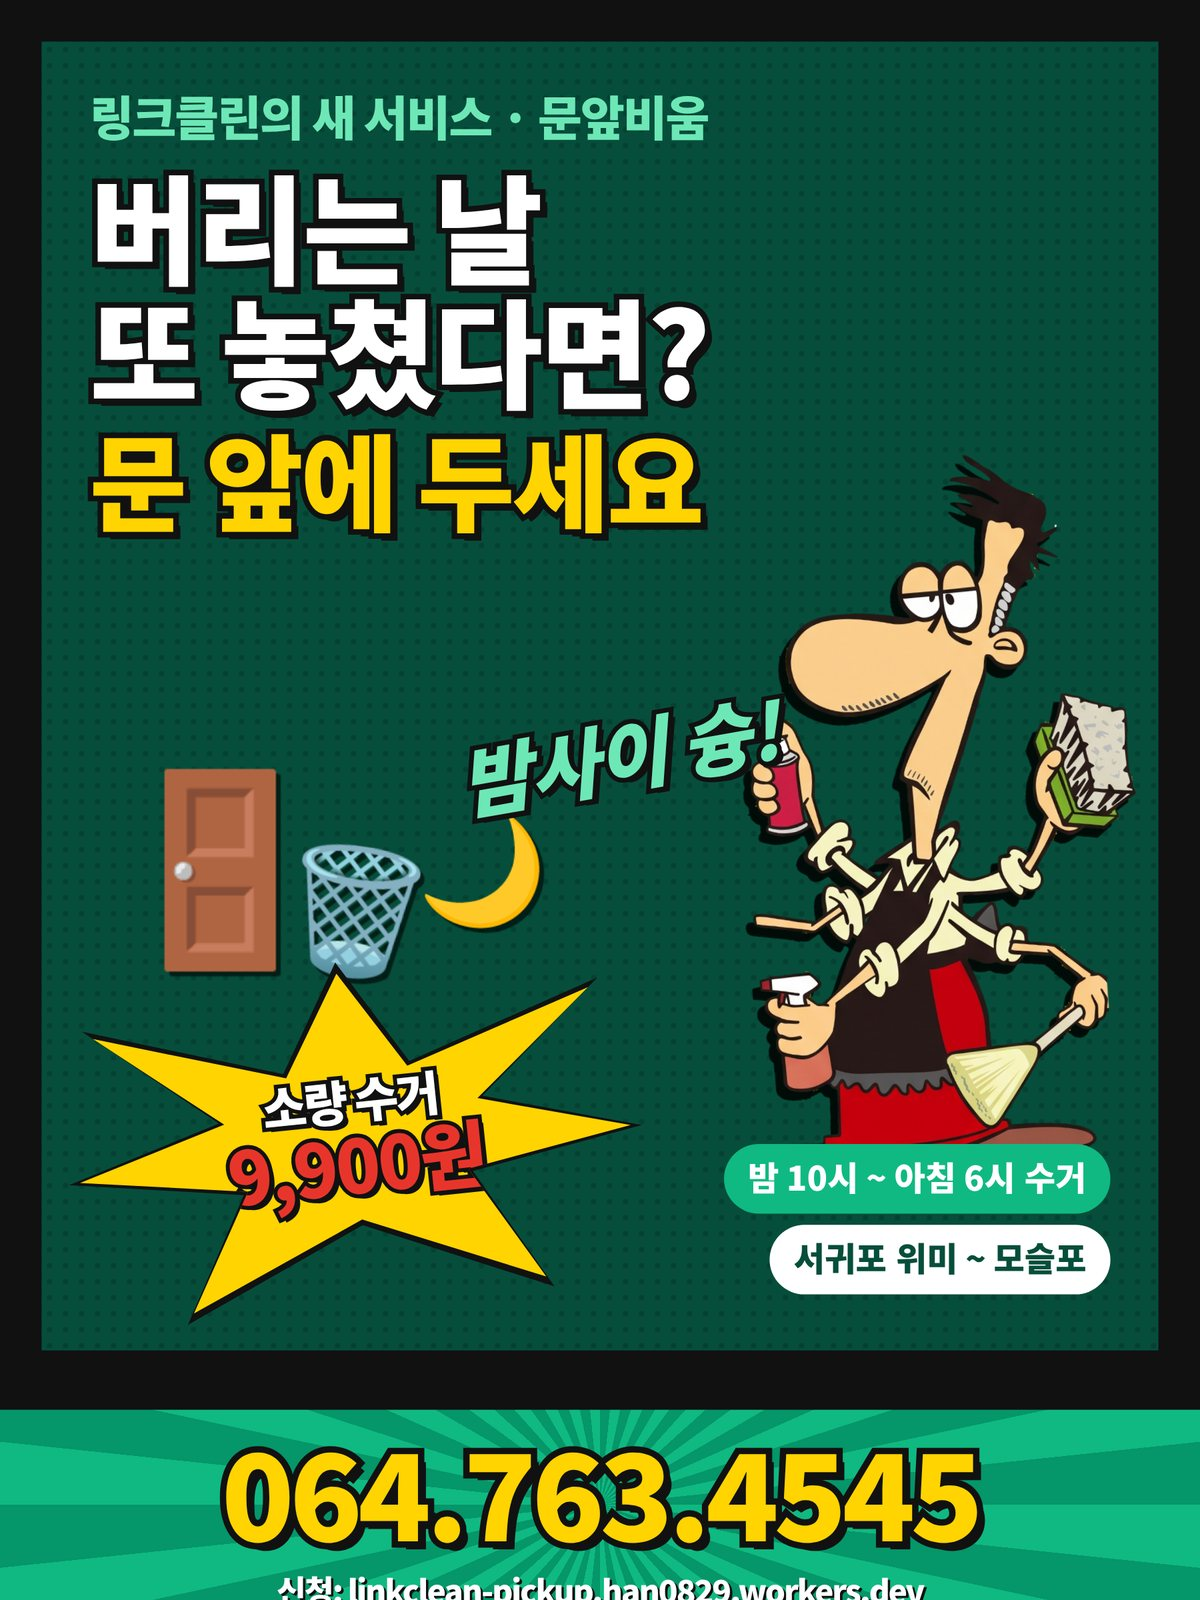
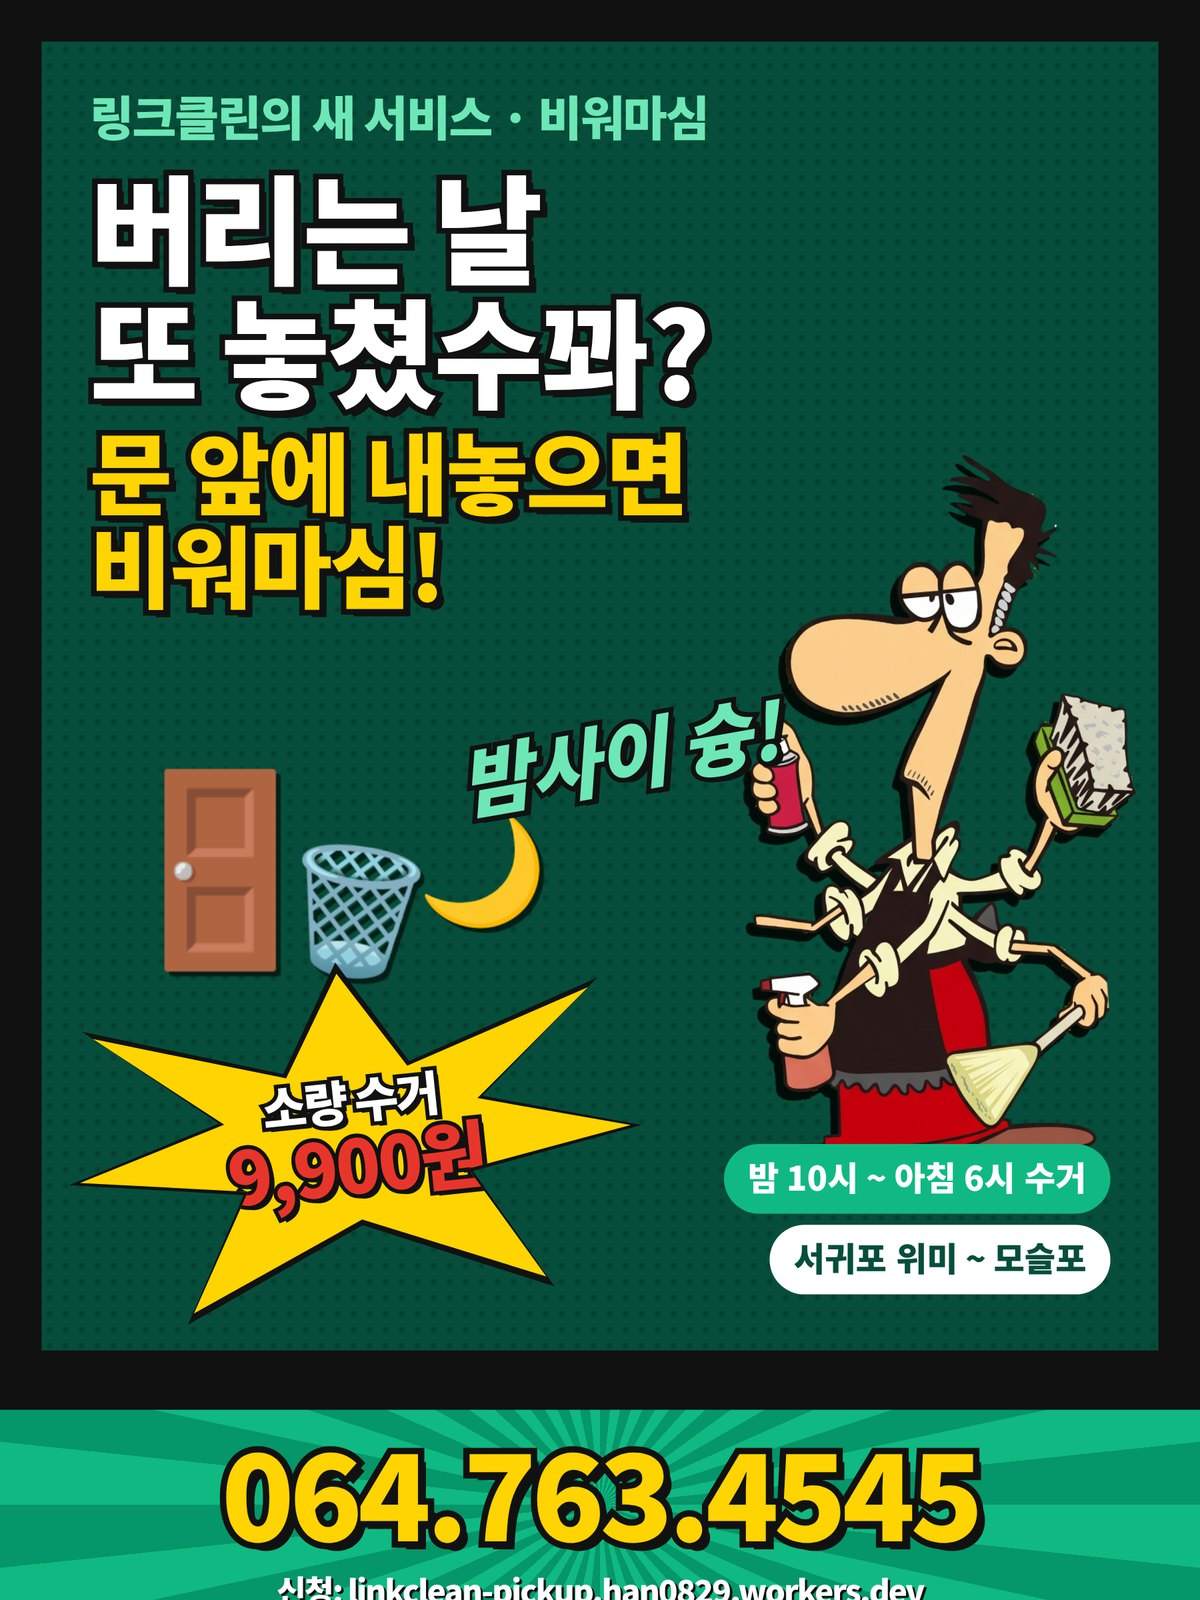
이번 주 포스터 09: 문앞비움 → 비워마심 (제주말 새 이름)
Claude-Session: https://claude.ai/code/session_01NRmsgW9tfEcNccBqBVpRyt

Changed region(s): [[0.0617, 0.1875, 0.5858, 0.4062], [0.4317, 0.0625, 0.5858, 0.0938]]

diff --git a/src/data/weeklyPosters.ts b/src/data/weeklyPosters.ts
@@ -18,7 +18,7 @@ export const WEEKLY_POSTERS: WeeklyPoster[] = [
   { src: '/posters/weekly-06.jpg', title: '이 냄새, 어디서 나지? · 오존 탈취', alt: '오존 살균 탈취 포스터 — 담배, 반려동물, 곰팡이, 음식, 새집 냄새' },
   { src: '/posters/weekly-07.jpg', title: '높이? 그게 뭔데요? · 외벽·고소', alt: '링크클린 × 클린앤스카이 외벽·유리창·간판 고소 청소 포스터 — 스카이차, 로프 작업' },
   { src: '/posters/weekly-08.jpg', title: '후기 쓰면 커피가 공짜! · 이벤트', alt: '링크클린 고객 이벤트 포스터 — 네이버 플레이스 후기, 지인 소개 시 커피 1잔' },
-  { src: '/posters/weekly-09.jpg', title: '버리는 날 놓쳤다면? · 문앞비움', alt: '문앞비움 문 앞 쓰레기 수거 포스터 — 소량 수거 9,900원, 밤 10시~아침 6시 수거' },
+  { src: '/posters/weekly-09.jpg', title: '버리는 날 놓쳤수꽈? · 비워마심', alt: '비워마심 제주 문 앞 쓰레기 수거 포스터 — 소량 수거 9,900원, 밤 10시~아침 6시 수거' },
   { src: '/posters/weekly-10.jpg', title: '청소 경력 12년 · 청소관리사 1급', alt: '제주 청소업체 링크클린 포스터 — 2016년 설립, 제주 전 지역, 무료 견적' },
   { src: '/posters/weekly-11.jpg', title: '월요일 아침이 상쾌해진다 · 사무실 청소', alt: '사무실 청소 포스터 — 책상, 바닥, 탕비실, 화장실까지' },
   { src: '/posters/weekly-12.jpg', title: '제주 어디든 달려갑니다!', alt: '제주 전 지역 출장 포스터 — 연중무휴 08:30~20:00, 방문 견적 무료' },
